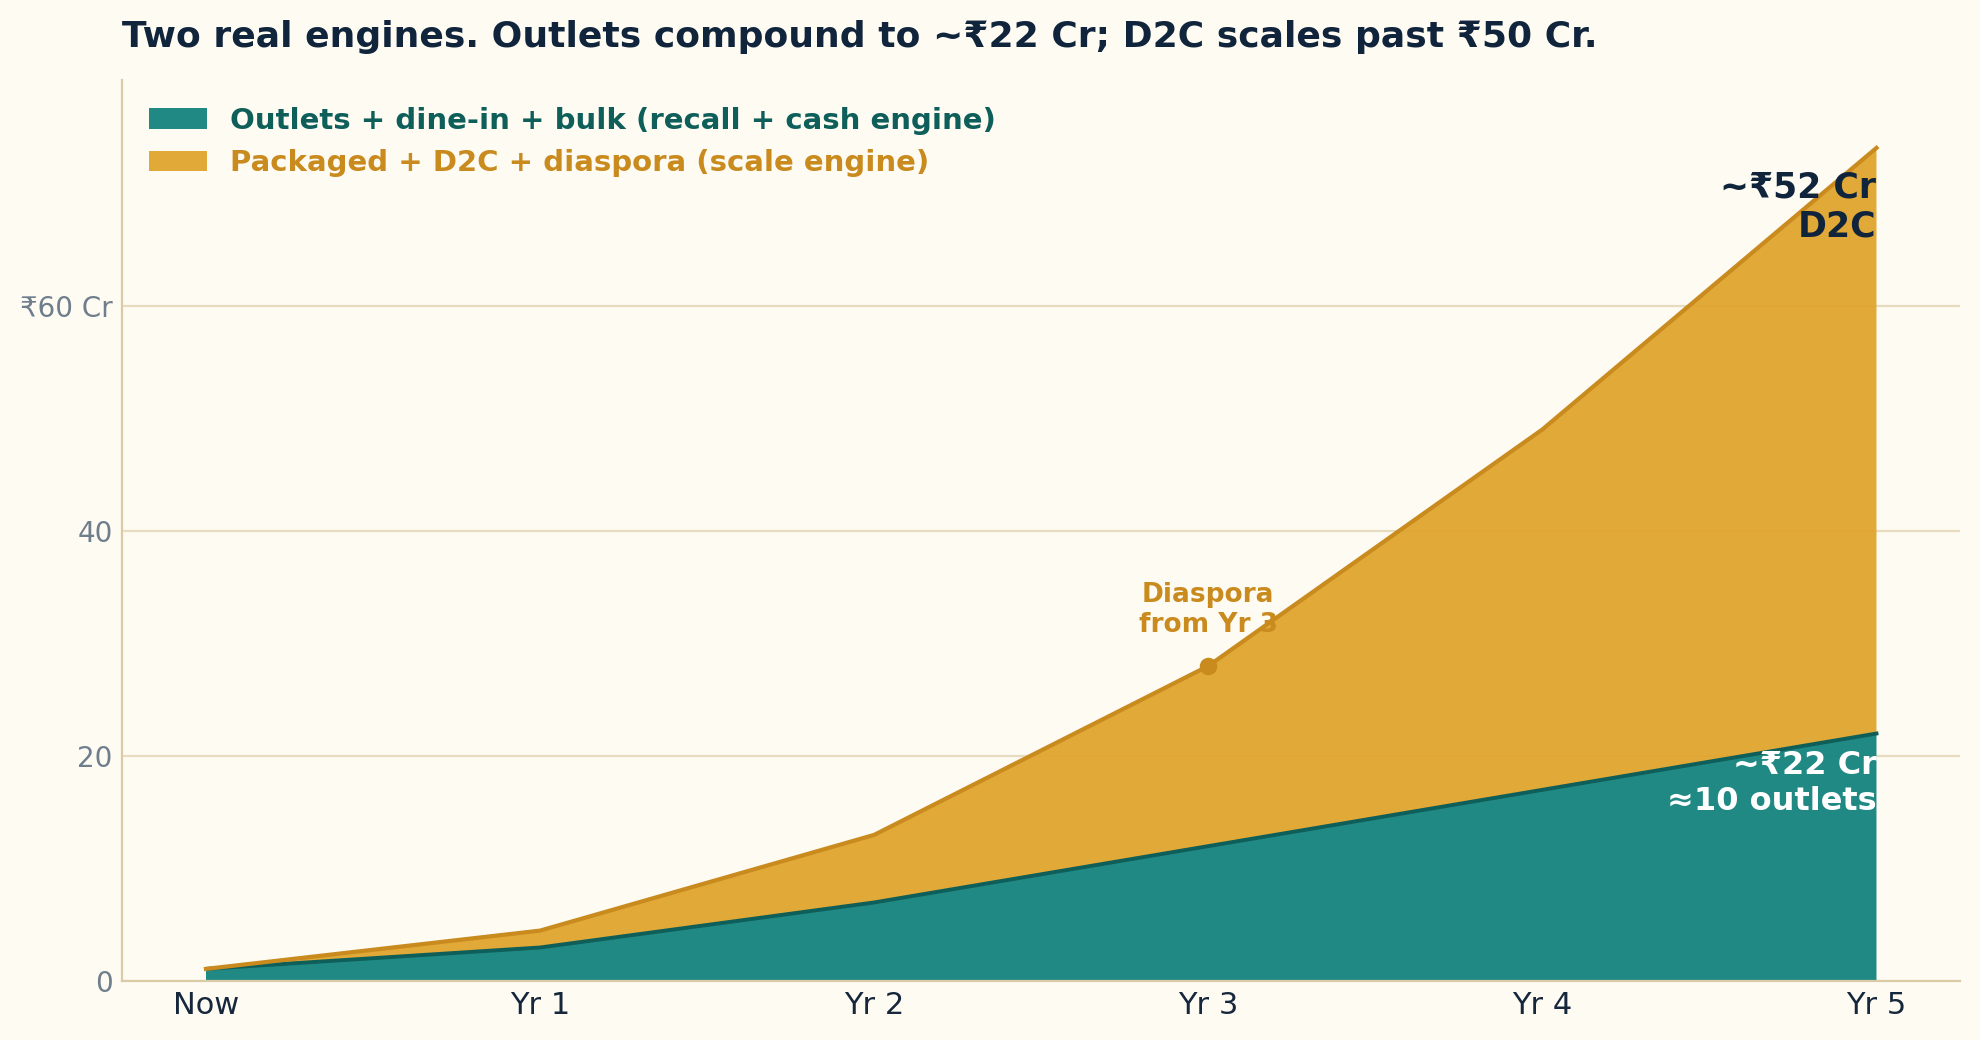
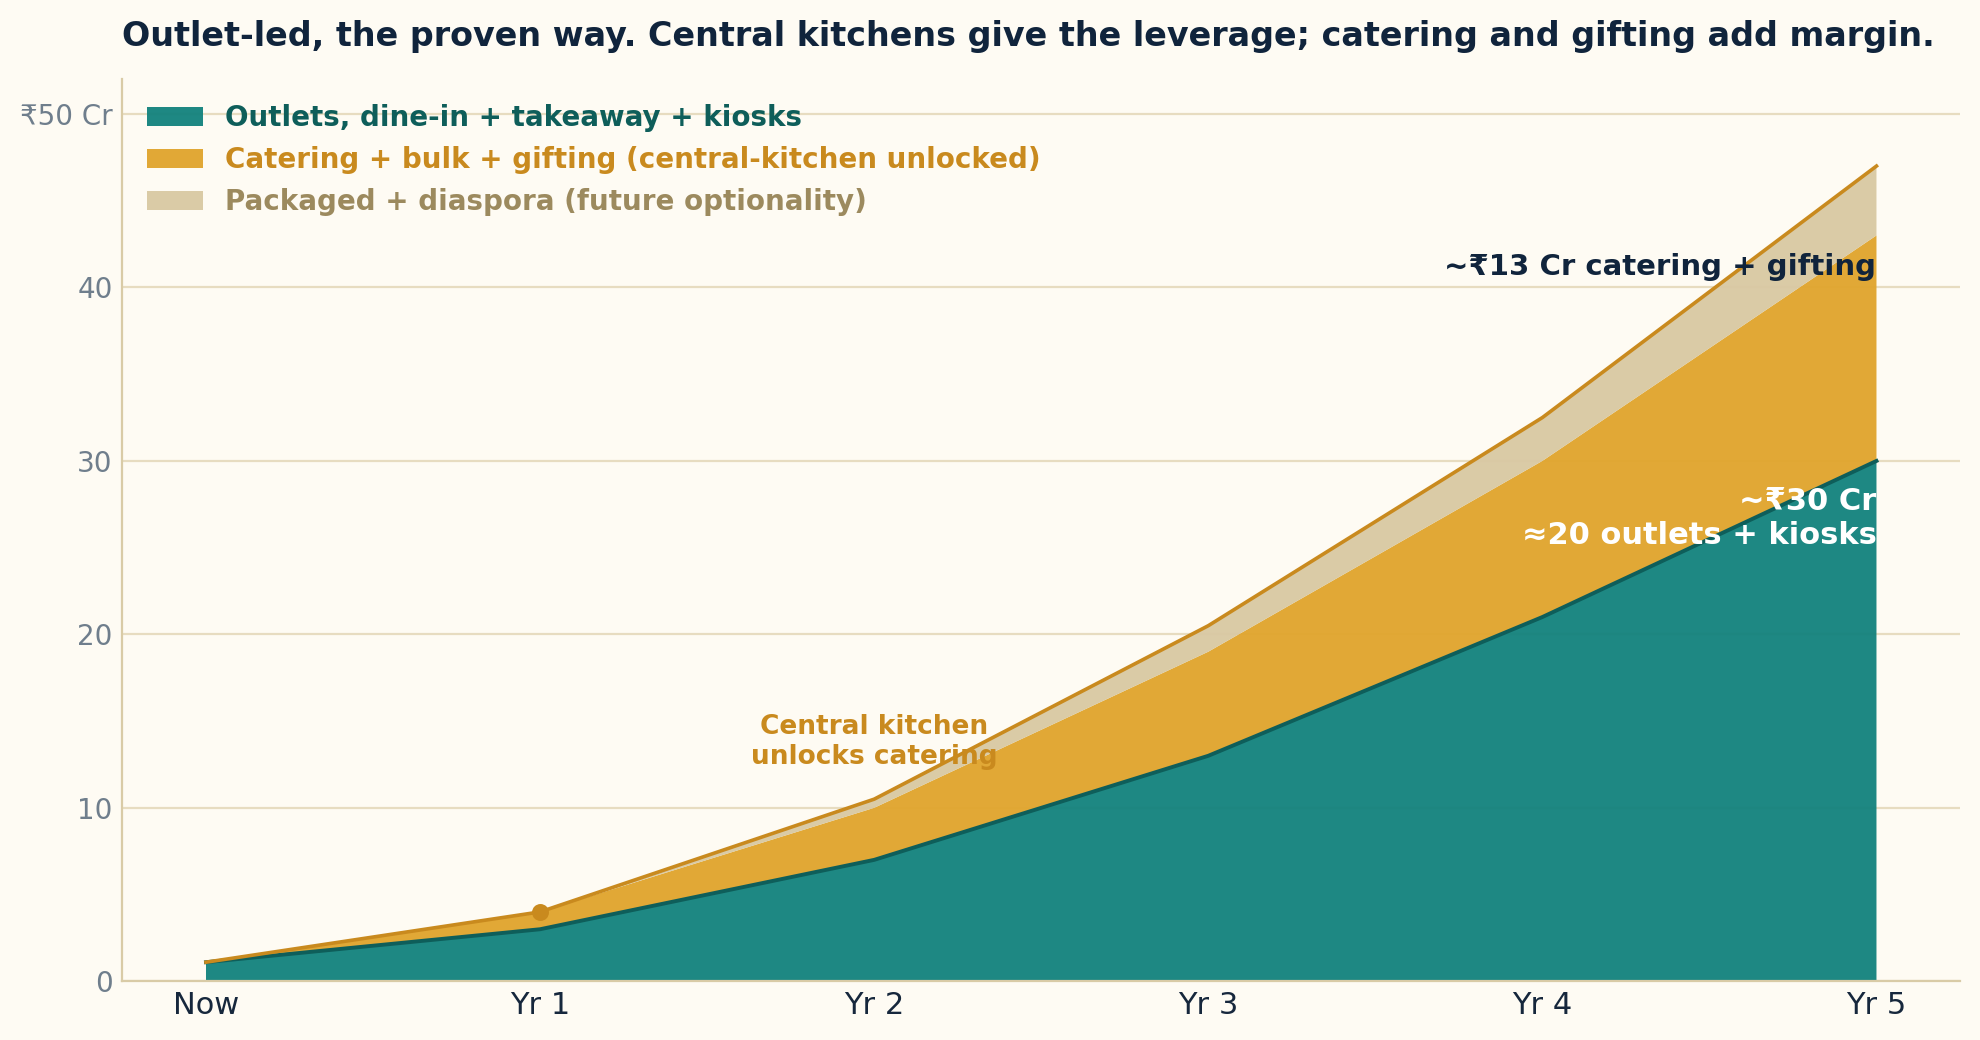
Deck v3 (Ketan's strategic redirect): kill packaged-D2C-to-50Cr; reframe to OUTLET-LED scale off central kitchens. Two engines = outlet (scaler) + central kitchen (leverage: staff flex + catering unlock); projection outlet-led (~30Cr outlets + ~13Cr catering/gifting + thin future); $2M = city densit

diff --git a/deck/index.html b/deck/index.html
@@ -109,13 +109,13 @@ ul{margin-top:14px;padding-left:20px}li{margin:7px 0;font-size:15.5px}.dark li,.
 
 <section class="slide light"><div class="wrap">
  <div class="kick t">What we are</div>
- <h2>Not a restaurant chain. A heritage food brand with two engines.</h2>
+ <h2>Not a restaurant chain. A heritage food brand that scales the proven way.</h2>
  <div class="grid g2">
-  <div class="card"><h3>The outlet + cash engine <span style="color:var(--teal2)">· ~₹20-25 Cr</span></h3><p>Outlets, dine-in and bulk orders. The proof, the experience, the daily cash, and where the content is born. Each new outlet bigger than the first, ~10 outlets compounding to a real ₹20 Cr+ base.</p></div>
-  <div class="card"><h3>The scale engine <span style="color:var(--gold2)">· ~₹50 Cr</span></h3><p>Packaged peda and namkeen, festive gifting, and the diaspora, shipped via D2C and quick-commerce. National, then global. The faster-compounding line, and where the brand becomes huge.</p></div>
+  <div class="card"><h3>The outlet engine <span style="color:var(--teal2)">· the scaler</span></h3><p>Outlets and kiosks, dine-in, takeaway and bulk. The proof, the experience, the daily cash, and where the brand and content are born. Each new outlet bigger than the first, governed density across a city, then more cities.</p></div>
+  <div class="card"><h3>The central kitchen <span style="color:var(--gold2)">· the leverage</span></h3><p>One kitchen feeds several outlets and kiosks, lets us move staff to where demand is, and unlocks the catering and gifting we turn away today. High-margin, and the reason the model compounds instead of just adding cost.</p></div>
  </div>
- <div class="chart"><img src="../assets/deck-projection.png" alt="Illustrative 5-year revenue trajectory: outlets compound to ~22Cr, D2C scales past 50Cr" /></div>
- <p class="cap2">Illustrative 5-year trajectory, built off today's ~₹1.1 Cr. Two real engines: outlets compound into a ~₹20 Cr+ cash base that keeps feeding recall, while packaged + D2C scales fastest. <span class="tag2">Existence proof: Haldiram, a 1937 namkeen identity, is now ~$8-10B on exactly this model</span></p>
+ <div class="chart"><img src="../assets/deck-projection.png" alt="Outlet-led 5-year trajectory: outlets ~30Cr, catering+gifting ~13Cr, packaged/diaspora a thin future layer" /></div>
+ <p class="cap2">Illustrative 5-year trajectory, built off today's ~₹1.1 Cr. Outlet-led, off central kitchens, with catering and gifting as high-margin layers. Packaged and diaspora are future optionality, not the bet. <span class="tag2">Existence proof: Bikanervala and Haldiram built thousands of crores on exactly this, heritage outlets + sweets + chaat + catering + gifting</span></p>
 </div></section>
 
 <section class="slide dark"><div class="wrap">
@@ -140,17 +140,17 @@ ul{margin-top:14px;padding-left:20px}li{margin:7px 0;font-size:15.5px}.dark li,.
   <div class="rev"><div class="rhead"><div class="av2" style="background:#E8710A">A</div><div><div class="nm2">Akrati Gangwar</div><div class="meta2">Google review</div></div><div class="gicon">G</div></div><div class="st">★★★★★</div><div class="rq">"Was missing that Agra taste of chaat, glad I finally found it here. Things I don't think are available anywhere else in Pune."</div></div>
   <div class="rev"><div class="rhead"><div class="av2" style="background:#C2185B">A</div><div><div class="nm2">Anushka Sharma</div><div class="meta2">Google review</div></div><div class="gicon">G</div></div><div class="st">★★★★★</div><div class="rq">"If you're feeling homesick in Pune, this place is truly a blessing."</div></div>
  </div>
- <p class="lead" style="margin-top:22px">Spearhead customer: the rooted, displaced Bhartiya who knows the real thing the moment they taste it. The internal diaspora first (UP and Bhartiya families in the metros), the global NRI next. <b>4.2★ across 700+ reviews</b>, and they self-identify on the first bite.</p>
+ <p class="lead" style="margin-top:22px">Why they come, from the founder's daily counter conversations: <b>authenticity</b> (it is actually from Mathura) and <b>a taste they cannot get anywhere else</b>, our bhalla and aloo tikki, the specific chole, the lassi, peda and sooji paani puri. Kachori and bedai sabji are the identity flag-bearers. Cheap chaat is everywhere; this is not that. <b>4.2★ across 700+ reviews</b>, and they self-identify on the first bite.</p>
 </div></section>
 
 <section class="slide dark2"><div class="wrap">
  <div class="kick">Why now, and in what order</div>
  <h2 class="gold">The window is open, and the prize is sequenced.</h2>
- <p class="lead">Three forces have lined up at once. We capture them in order, prove packaged at home first, then take the feeling to the diaspora.</p>
+ <p class="lead">Three forces have lined up at once. We capture them in order: prove the outlet model and the central-kitchen leverage first, then expand city by city, and keep packaged and diaspora as optionality.</p>
  <div class="tl">
-  <div class="step"><div class="when">Now</div><h4>The window is open</h4><p>Backlash against frozen, preservative food. Bhartiya pride is aspirational again. And quick-commerce + D2C rails finally exist. We already have the proven outlet and the brand.</p></div>
-  <div class="step"><div class="when">Year 1-2</div><h4>Win packaged India</h4><p>Launch peda, namkeen and gifting on D2C and quick-commerce. Own the festival moments. Add outlet density for recall. Build the engine on home soil.</p></div>
-  <div class="step"><div class="when">Year 3+</div><h4>The diaspora, then global</h4><p>Millions of displaced Bhartiyas with spending power and no brand serving the feeling. The biggest prize, taken only after packaged is proven at home.</p></div>
+  <div class="step"><div class="when">Now</div><h4>The window is open</h4><p>Backlash against frozen, preservative food. Bhartiya pride is aspirational again. And a heritage brand can finally be built fast. We already have the proven outlet, the brand and the demand.</p></div>
+  <div class="step"><div class="when">Year 1-2</div><h4>Central kitchen + outlet density</h4><p>A central kitchen, a flagship and kiosks across Pune. Unlock the catering and gifting we turn away today. Drive our own footfall and repeat, so we own the customer, not the aggregator.</p></div>
+  <div class="step"><div class="when">Year 3+</div><h4>More cities, then optionality</h4><p>Replicate the proven city model elsewhere. Packaged peda and the diaspora are upside we layer on once the outlet engine is dense, not the thing we are betting the company on.</p></div>
  </div>
 </div></section>
 
@@ -159,7 +159,7 @@ ul{margin-top:14px;padding-left:20px}li{margin:7px 0;font-size:15.5px}.dark li,.
  <div class="grid g3">
   <div class="card"><h3>Authenticity that can't be faked</h3><p>Founder born in Mathura, family-run, recipes as IP, real provenance: heeng from Hathras.</p></div>
   <div class="card"><h3>The default answer in Search & AI</h3><p>A Braj-cuisine knowledge hub that makes us the source Google and LLMs cite. Already built: <a href="https://ketansharma071190.github.io/mathurawala-web/braj-kitchen/" target="_blank" rel="noopener" style="color:var(--teal2);font-weight:600;border-bottom:1px solid var(--teal2)">see the Braj Kitchen hub</a> (live preview, public domain soon).</p></div>
-  <div class="card"><h3>Made-live freshness at scale</h3><p>Central kitchen by radius: a hub serves outlets inside a freshness commute. The signature competitors won't match.</p></div>
+  <div class="card"><h3>Central-kitchen operating leverage</h3><p>One kitchen serves several outlets and kiosks within a freshness radius. It lets us flex staff to where demand is, holds the taste steady, and unlocks catering, the things a single outlet can't do and a frozen chain can't taste like.</p></div>
  </div>
 </div></section>
 
@@ -168,8 +168,8 @@ ul{margin-top:14px;padding-left:20px}li{margin:7px 0;font-size:15.5px}.dark li,.
  <div class="grid g4">
   <div class="card"><h3>01</h3><p>Own the internet face of Mathura food: content, reviews, the hub.</p></div>
   <div class="card"><h3>02</h3><p>Win the festival moments: Janmashtami, Diwali.</p></div>
-  <div class="card"><h3>03</h3><p>Launch packaged peda, namkeen and gifting into quick-commerce and D2C.</p></div>
-  <div class="card"><h3>04</h3><p>Outlet density and governed franchise, only on proven SOPs.</p></div>
+  <div class="card"><h3>03</h3><p>Central kitchen + a flagship: unlock catering, bulk and gifting, and the staff flexibility to grow.</p></div>
+  <div class="card"><h3>04</h3><p>Outlet and kiosk density per city, off the kitchen, governed franchise only on proven SOPs.</p></div>
  </div>
 </div></section>
 
@@ -179,16 +179,15 @@ ul{margin-top:14px;padding-left:20px}li{margin:7px 0;font-size:15.5px}.dark li,.
  <div class="asks">
   <div class="askcard lead2">
    <div class="amt2">$2M <span style="font-size:16px;color:var(--muted)">· ~₹16.5 Cr</span></div>
-   <div class="scope">The scale round · outlets + factory + D2C</div>
+   <div class="scope">The scale round · city density + central kitchens</div>
    <ul>
-    <li>Outlet network, 5-6 outlets + kiosks: ~₹5 Cr</li>
-    <li>Central kitchen / factory + packaging machinery: ~₹4 Cr</li>
-    <li>D2C + packaged line, product, packaging, listings, performance: ~₹4 Cr</li>
-    <li>Diaspora export pilot: ~₹1.5 Cr</li>
-    <li>Brand + content/authority moat: ~₹1 Cr</li>
-    <li>Working capital + 24-30 mo runway: ~₹1 Cr</li>
+    <li>Outlet + kiosk network across Pune, 8-10 sites: ~₹7 Cr</li>
+    <li>Central-kitchen network, 2 hubs by radius: ~₹3.5 Cr</li>
+    <li>Catering + gifting capacity, equipment + occasion packaging: ~₹1.5 Cr</li>
+    <li>Brand, content + own-footfall marketing: ~₹2 Cr</li>
+    <li>Working capital + ops bench + 24-30 mo runway: ~₹2.5 Cr</li>
    </ul>
-   <div class="reach"><b>Where we reach (24-30 mo):</b> 5-6 outlets compounding (~₹12-15 Cr) plus a factory and D2C scaling fast (~₹8-10 Cr). ~₹20-25 Cr ARR, D2C the fastest-growing line, on the trajectory to ₹70 Cr+.</div>
+   <div class="reach"><b>Where we reach (24-30 mo):</b> 8-10 outlets and kiosks across Pune off two central kitchens, catering and gifting at scale, ~₹20-25 Cr ARR. A proven city model, ready to replicate in the next city.</div>
   </div>
   <div class="askcard">
    <div class="amt2">₹2 Cr</div>
